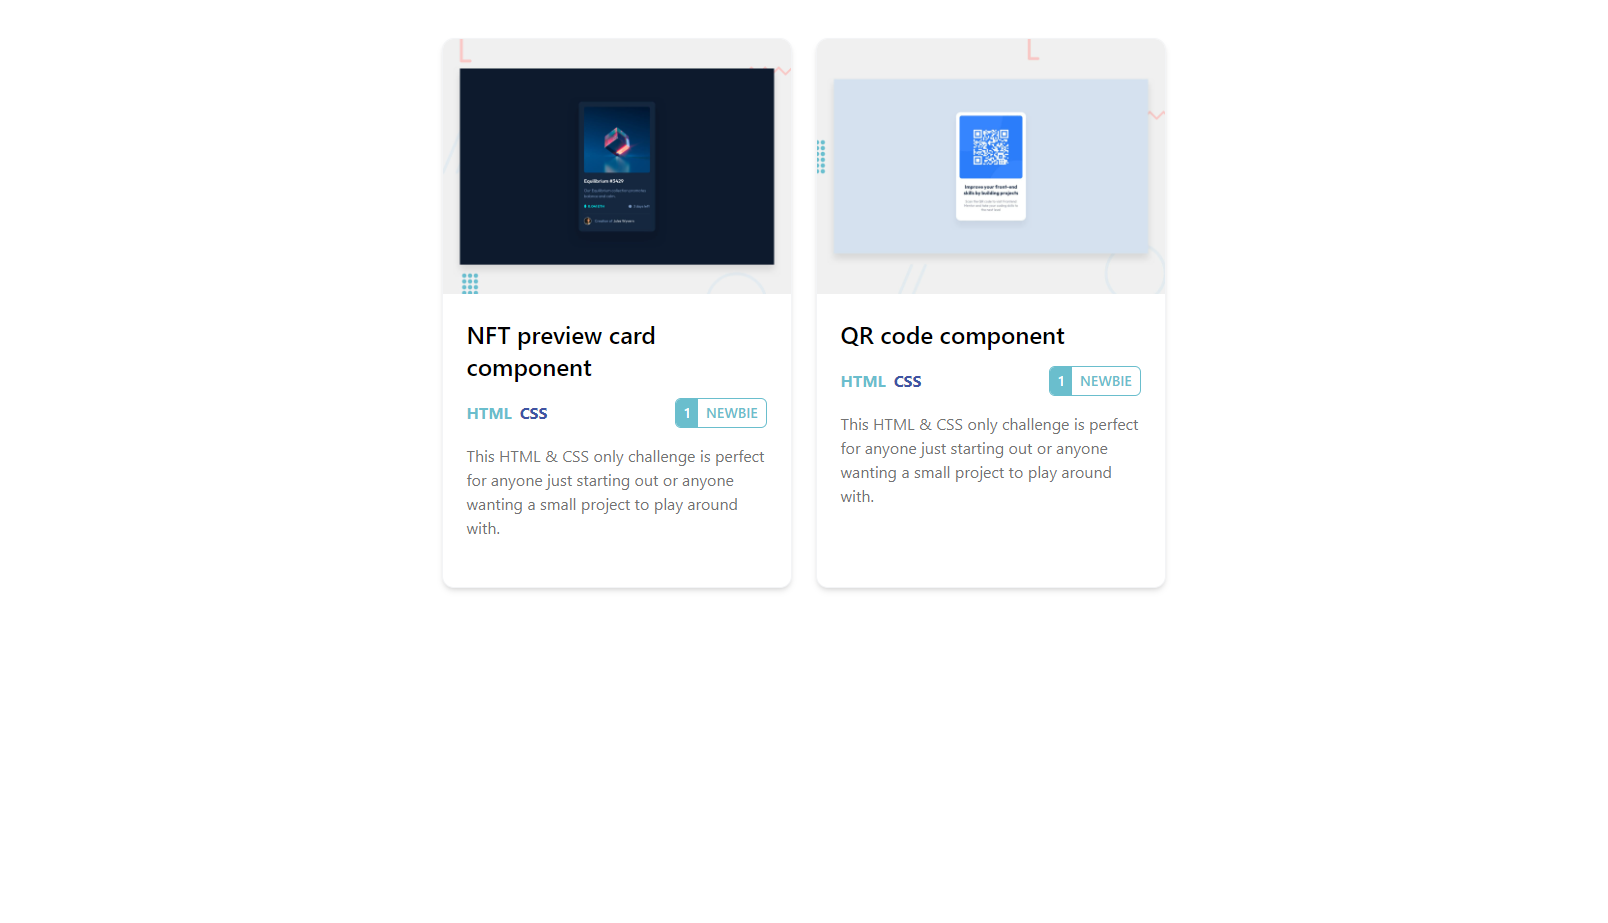
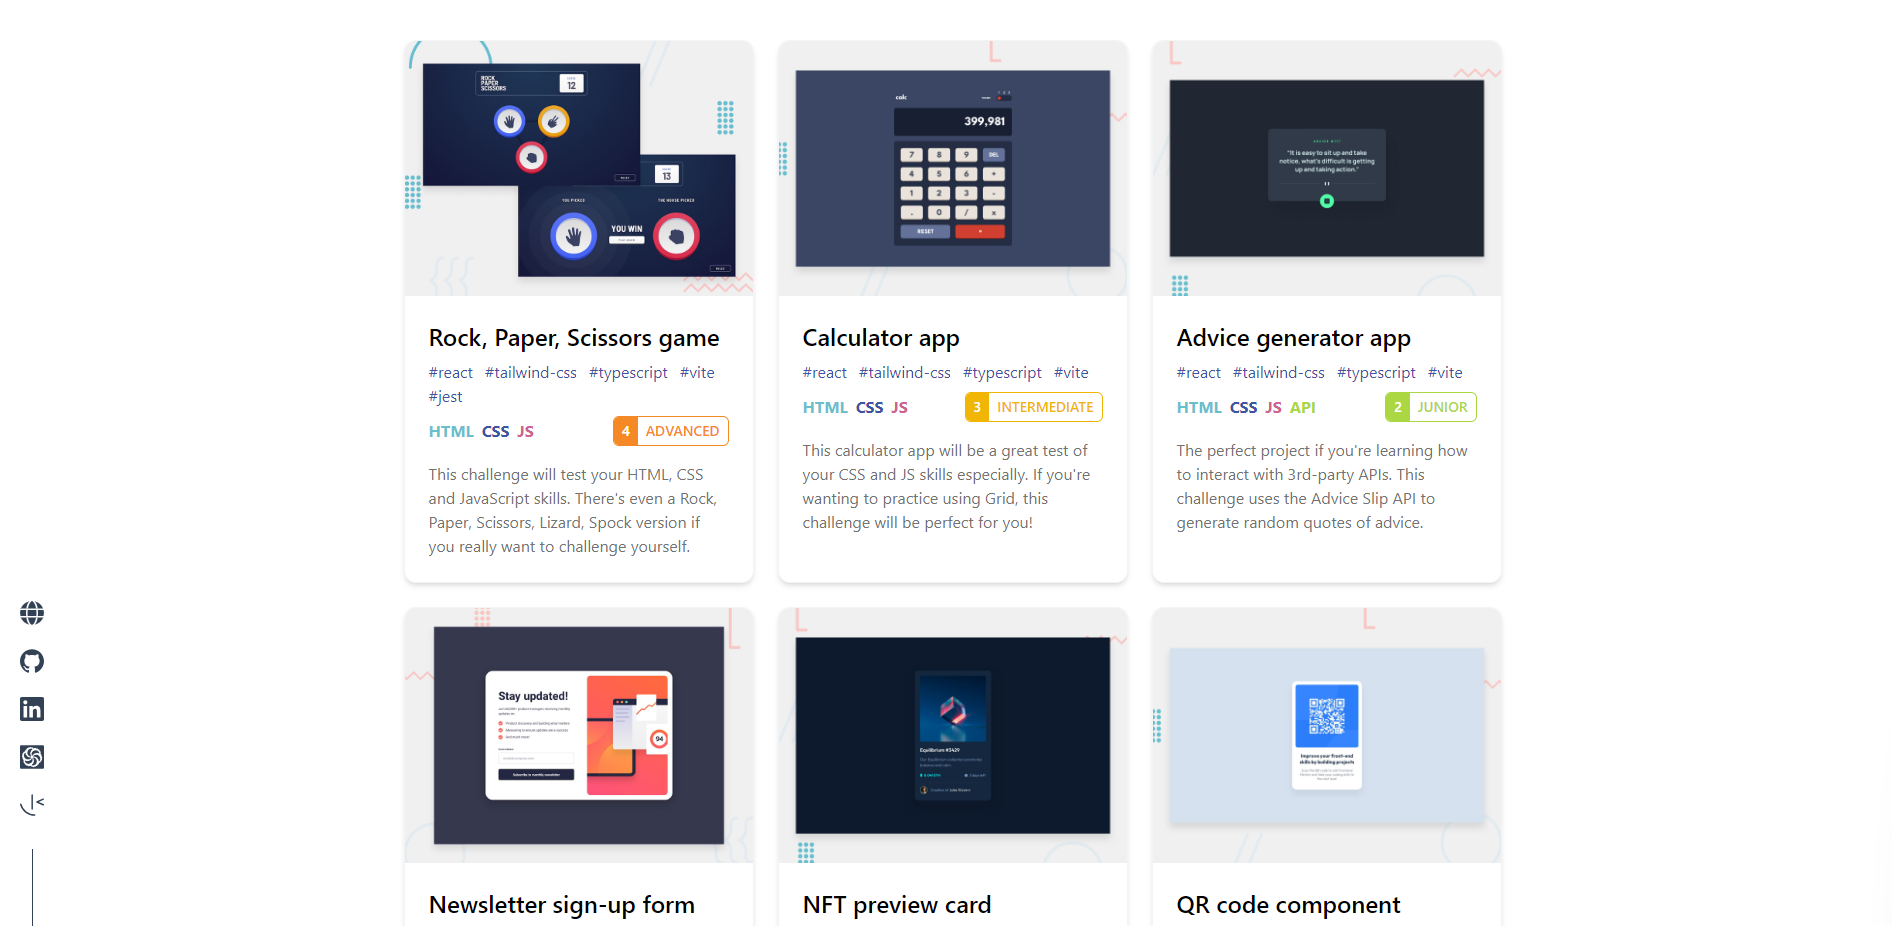
rock paper scissors game, readme

diff --git a/src/constants.ts b/src/constants.ts
@@ -5,7 +5,7 @@ import nftPreviewCardComponentImg from "../thumbnails/nft-preview-card-component
 import newsletterSignUpFormWithSuccessMessageImg from "../thumbnails/newsletter-sign-up-form-with-success-message.jpg"
 import adviceGeneratorAppImg from "../thumbnails/advice-generator-app.jpg"
 import calculatorAppImg from "../thumbnails/calculator-app.jpg"
-
+import rockPaperScissorsGameImg from "../thumbnails/rock-paper-scissors-game.jpg"
 
 export const languageColorMap = {
   [Language.Html]: "text-html",
@@ -49,13 +49,22 @@ export const levelMap = {
 
 export const challenges: Challenge[] = [
   {
+    title: "Rock, Paper, Scissors game",
+    languages: [Language.Html, Language.Css, Language.Js],
+    level: Level.Advanced,
+    description:
+      "This challenge will test your HTML, CSS and JavaScript skills. There's even a Rock, Paper, Scissors, Lizard, Spock version if you really want to challenge yourself.",
+    demoHref: "https://frontend-mentor-rock-paper-scissors-self.vercel.app/",
+    imgSrc: rockPaperScissorsGameImg,
+    tags: ["react", "tailwind-css", "typescript", "vite", "jest"],
+  },
+  {
     title: "Calculator app",
     languages: [Language.Html, Language.Css, Language.Js],
     level: Level.Intermediate,
     description:
       "This calculator app will be a great test of your CSS and JS skills especially. If you're wanting to practice using Grid, this challenge will be perfect for you!",
-    demoHref:
-      "https://frontend-mentor-calculator-app-rouge.vercel.app/",
+    demoHref: "https://frontend-mentor-calculator-app-rouge.vercel.app/",
     imgSrc: calculatorAppImg,
     tags: ["react", "tailwind-css", "typescript", "vite"],
   },
@@ -65,8 +74,7 @@ export const challenges: Challenge[] = [
     level: Level.Junior,
     description:
       "The perfect project if you're learning how to interact with 3rd-party APIs. This challenge uses the Advice Slip API to generate random quotes of advice.",
-    demoHref:
-      "https://frontendmentor-advice-generator-app-tau.vercel.app/",
+    demoHref: "https://frontendmentor-advice-generator-app-tau.vercel.app/",
     imgSrc: adviceGeneratorAppImg,
     tags: ["react", "tailwind-css", "typescript", "vite"],
   },
